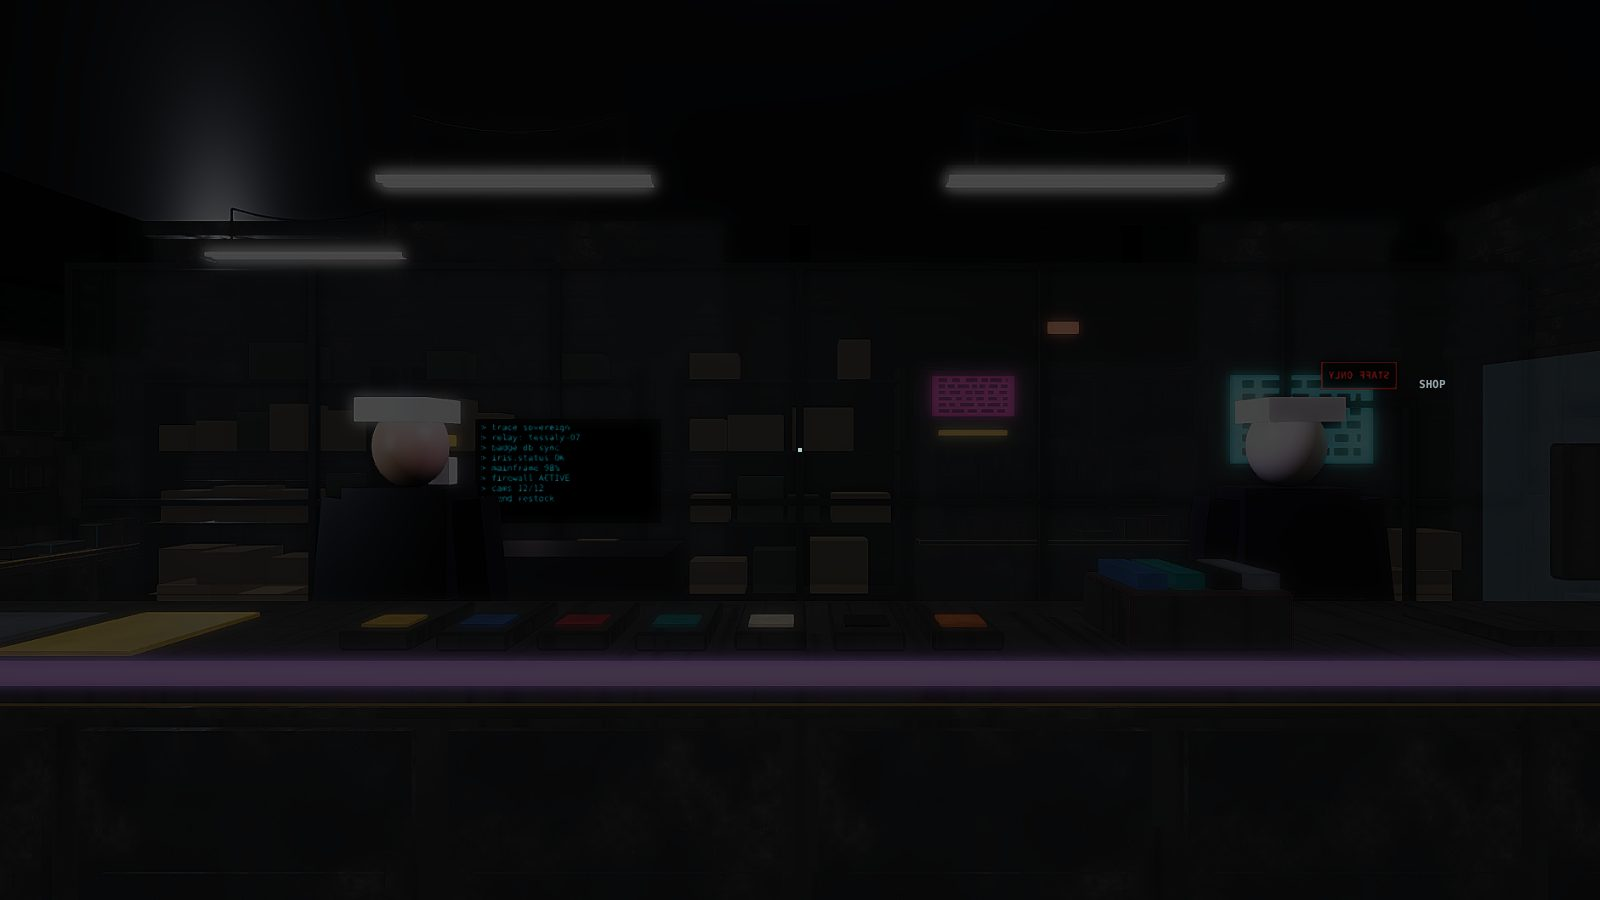
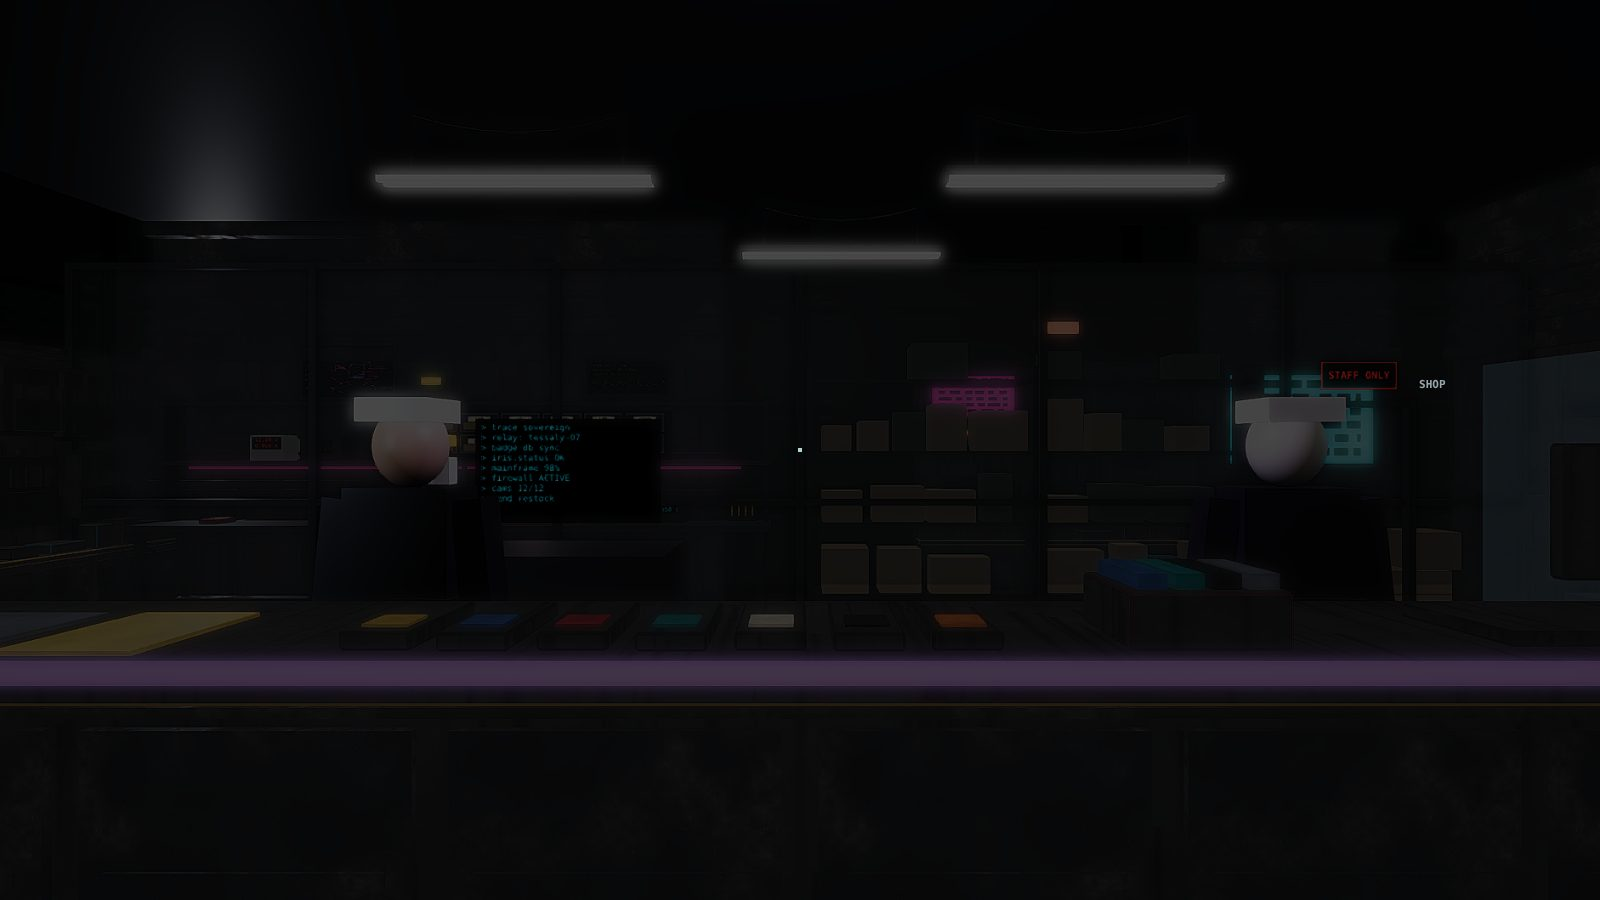
District shop: half the stock cage is a repair bench
David: make half the area behind the mesh a work station. West half: an electronics bench (cutting mat, boards,
instruments, parts bins, two monitors, pink work light). East half: the stock racks.

Claude-Session: https://claude.ai/code/session_013LW6cCPWiok2HMcoh6xN6q

diff --git a/void-runner/neochinatown.js b/void-runner/neochinatown.js
@@ -802,11 +802,34 @@
      plane('shop-cage-sign',.7,.26,[15.1,2.36,Z-.06],texMat('shop-cage-sign',texture('shop-cage-sign',256,96,(g,W,H)=>{g.fillStyle='#0a0b0e';g.fillRect(0,0,W,H);g.strokeStyle='#ff4a36';g.lineWidth=4;g.strokeRect(4,4,W-8,H-8);g.fillStyle='#ff4a36';g.font='bold 34px Consolas,monospace';g.textAlign='center';g.textBaseline='middle';g.fillText('STAFF ONLY',W/2,H/2+2);}),{glow:true}),0);   // a plane's front is -z: it faces the counter
      // racks of stock against the back wall, inside the cage
      let q=77;const rnd=()=>(q=(q*1103515245+12345)&0x7fffffff)/0x7fffffff;
-     for(const x0 of [3.6,6.2,8.8]){for(const dx of [0,2.2])box('shop-rack',[.05,2.5,.5],[x0+dx,1.25,52.42],cageSteel);for(const y of [.25,.95,1.65,2.35]){box('shop-rack',[2.2,.04,.5],[x0+1.1,y,52.42],cageSteel);
+     for(const x0 of [10.1,12.3]){for(const dx of [0,2.2])box('shop-rack',[.05,2.5,.5],[x0+dx,1.25,52.42],cageSteel);for(const y of [.25,.95,1.65,2.35]){box('shop-rack',[2.2,.04,.5],[x0+1.1,y,52.42],cageSteel);
        let x=x0+.12;while(x<x0+2.0){const w=.26+rnd()*.34,h=.22+rnd()*.3,d=.3+rnd()*.14;if(x+w>x0+2.14)break;if(y<2.3||h<.4)box('shop-stock',[w,h,d],[x+w/2,y+.02+h/2,52.42],rnd()>.3?card:crate);x+=w+.03+rnd()*.1;}}}
-     for(const [x,z,w,h] of [[4.3,52.0,.5,.4],[5.0,51.98,.42,.32],[4.6,52.02,.4,.3],[15.9,52.2,.6,.5],[16.1,52.25,.46,.36]])box('shop-stock',[w,h,.42],[x,(h===.3||h===.36?(x<10?.4:.5):0)+h/2+.03,z],card);
+     for(const [x,z,w,h,up] of [[15.9,52.2,.6,.5,0],[16.1,52.25,.46,.36,.5],[14.9,52.5,.5,.4,0]])box('shop-stock',[w,h,.42],[x,up+h/2+.03,z],card);
+     // The west half of the cage is a repair bench (David's workstation reference): a long bench against the back wall with a cutting mat and tools, parts bins and instruments on a shelf, two monitors, a pink work light.
+     {const bz=52.42,top=mat('shop-bench-top','#17181c',{rough:.6,metal:.5}),pink=glowMat('shop-bench-pink','#ff4fb8',.85),screen=(name,w,h,p,draw)=>plane(name,w,h,p,texMat(name,texture(name,256,Math.round(256*h/w),draw),{glow:true}),0);
+      box('shop-bench',[6.2,.06,.66],[6.6,.92,bz],top);for(const x of [3.6,5.6,7.6,9.6])for(const dz of [-.28,.28])box('shop-bench-leg',[.06,.9,.06],[x,.45,bz+dz],cageSteel);box('shop-bench-shelf',[6.2,.04,.3],[6.6,1.55,52.62],top);box('shop-bench-shelf',[6.2,.04,.3],[6.6,2.15,52.62],top);for(const x of [3.55,6.6,9.65])box('shop-bench-upright',[.05,1.3,.3],[x,1.55,52.62],cageSteel);
+      box('shop-bench-light',[5.6,.03,.04],[6.6,1.5,52.5],pink);lightPool('#ff4fb8',5.4,.9,[6.6,.955,bz],.3);
+      // the cutting mat and what lies on it, as one picture seen from above
+      {const t=texture('shop-bench-mat',512,128,(g,W,H)=>{g.fillStyle='#17352e';g.fillRect(0,0,W,H);g.strokeStyle='rgba(120,200,170,.35)';g.lineWidth=1;for(let x=0;x<W;x+=16){g.beginPath();g.moveTo(x,0);g.lineTo(x,H);g.stroke();}for(let y=0;y<H;y+=16){g.beginPath();g.moveTo(0,y);g.lineTo(W,y);g.stroke();}
+        let q=91;const rnd=()=>(q=(q*1103515245+12345)&0x7fffffff)/0x7fffffff;for(const [x,y,w,h] of [[60,30,70,46],[300,60,54,36],[420,24,60,40]]){g.fillStyle='#143a22';g.fillRect(x,y,w,h);g.fillStyle='#0b0c0e';for(let n=0;n<7;n++)g.fillRect(x+6+rnd()*(w-22),y+5+rnd()*(h-16),8+rnd()*10,5+rnd()*6);g.fillStyle='#c9a64a';for(let n=0;n<10;n++)g.fillRect(x+3+n*(w-8)/10,y+h-4,2,3);}
+        g.fillStyle='#b8bcc4';g.beginPath();g.arc(200,64,20,0,7);g.fill();g.fillStyle='#17352e';g.beginPath();g.arc(200,64,9,0,7);g.fill();g.fillStyle='#c0392b';g.fillRect(140,84,52,9);g.fillRect(140,98,52,9);g.fillStyle='#9aa0a8';g.fillRect(192,88,30,5);g.fillRect(192,99,30,5);g.fillStyle='#d8dce4';g.fillRect(250,20,44,6);g.fillStyle='#e8e8ec';g.fillRect(380,90,60,8);g.fillStyle='#ff4fb8';g.fillRect(432,90,8,8);});
+       const m=new B.StandardMaterial('ncz-shop-bench-mat',scene);owned.push(m);m.diffuseTexture=t;m.emissiveTexture=t;m.emissiveColor=new B.Color3(.45,.45,.45);m.specularColor=new B.Color3(.05,.05,.05);add(B.MeshBuilder.CreateGround('shop-bench-mat',{width:2.6,height:.56},scene),m,[6.9,.953,bz-.02]);}
+      // instruments: a bench supply, a soldering station, a meter, a small scope; a magnifier on an arm; a spool; a tool rack
+      box('shop-bench-psu',[.34,.26,.3],[4.6,1.7,52.62],mat('shop-instrument','#c9c6bd',{rough:.6,metal:.2}));screen('shop-psu-face',.3,.13,[4.6,1.75,52.465],(g,W,H)=>{g.fillStyle='#120606';g.fillRect(0,0,W,H);g.fillStyle='#ff3a2a';g.font='bold '+Math.round(H*.42)+'px Consolas,monospace';g.textAlign='center';g.textBaseline='middle';g.fillText('12.00 V',W/2,H*.28);g.fillText('0.000 A',W/2,H*.74);});
+      box('shop-bench-solder',[.3,.2,.28],[8.7,1.05,bz+.1],cageSteel);screen('shop-solder-face',.16,.09,[8.7,1.08,bz-.045],(g,W,H)=>{g.fillStyle='#04100c';g.fillRect(0,0,W,H);g.fillStyle='#7ff0ff';g.font='bold '+Math.round(H*.7)+'px Consolas,monospace';g.textAlign='center';g.textBaseline='middle';g.fillText('350°C',W/2,H/2);});{const iron=cyl('shop-solder-iron',.012,.3,[9.05,1.08,bz],cageSteel,true,6);iron.rotation.z=.9;}
+      box('shop-bench-meter',[.16,.05,.28],[4.2,.975,bz-.08],mat('shop-meter','#7a1612',{rough:.6,metal:.1}));screen('shop-meter-face',.12,.07,[4.2,1.003,bz-.16],(g,W,H)=>{g.fillStyle='#9fb09a';g.fillRect(0,0,W,H);g.fillStyle='#10140f';g.font='bold '+Math.round(H*.7)+'px Consolas,monospace';g.textAlign='center';g.textBaseline='middle';g.fillText('0.000',W/2,H/2);}).rotation.x=Math.PI/2;
+      box('shop-bench-scope',[.3,.22,.26],[5.2,1.7,52.62],cageSteel);screen('shop-scope-face',.2,.13,[5.16,1.71,52.485],(g,W,H)=>{g.fillStyle='#03120c';g.fillRect(0,0,W,H);g.strokeStyle='#58ffb0';g.lineWidth=3;g.beginPath();for(let x=0;x<=W;x+=4){const y=H/2+Math.sin(x*.09)*H*.3*(x>W*.4&&x<W*.6?.2:1);x?g.lineTo(x,y):g.moveTo(x,y);}g.stroke();});
+      {const arm=cyl('shop-bench-arm',.012,.42,[6.2,1.17,bz+.12],cageSteel,true,6);arm.rotation.x=-.35;const lens=cyl('shop-bench-lens',.11,.012,[6.2,1.37,bz+.02],mat('shop-lens','#9fd8e8',{rough:.05,metal:.2,alpha:.35}),false,20);lens.rotation.x=.5;const rim=add(B.MeshBuilder.CreateTorus('shop-bench-lens-rim',{diameter:.22,thickness:.016,tessellation:20},scene),cageSteel,[6.2,1.37,bz+.02]);rim.rotation.x=.5;}
+      {const spool=cyl('shop-bench-spool',.05,.05,[7.6,.98,bz+.1],mat('shop-spool','#a8281e',{rough:.5,metal:.3}),true,12);for(let k=0;k<7;k++)cyl('shop-bench-driver',.008,.16,[9.3+k*.035,1.03,bz+.2],k%2?cageSteel:mat('shop-driver','#d8a020',{rough:.5,metal:.3}),true,6);box('shop-bench-driver-rack',[.3,.05,.06],[9.4,.975,bz+.2],cageSteel);}
+      // parts bins on the lower shelf: rows of small clear drawers with labels, as one picture
+      screen('shop-bench-bins',2.6,.5,[7.4,1.83,52.47],(g,W,H)=>{g.fillStyle='#0a0b0f';g.fillRect(0,0,W,H);const names=['RES','CAP','IC','DIODE','LED','CONN','SWITCH','XTAL','MISC','FUSE','REG','MOSFET'];for(let r=0;r<2;r++)for(let c=0;c<6;c++){const x=4+c*(W-8)/6,y=3+r*(H-6)/2,w=(W-8)/6-4,h=(H-6)/2-4;g.fillStyle='rgba(120,130,160,.28)';g.fillRect(x,y,w,h);g.strokeStyle='rgba(200,210,235,.5)';g.lineWidth=1;g.strokeRect(x,y,w,h);g.fillStyle='rgba(220,190,90,.5)';g.fillRect(x+3,y+h*.5,w-6,h*.42);g.fillStyle='#d8d2c0';g.fillRect(x+w*.2,y+3,w*.6,h*.3);g.fillStyle='#16161a';g.font='bold '+Math.round(h*.24)+'px Arial,sans-serif';g.textAlign='center';g.textBaseline='middle';g.fillText(names[r*6+c],x+w/2,y+3+h*.16);}});
+      // two monitors on the upper shelf: a board layout and a terminal
+      box('shop-bench-monitor',[1.0,.6,.04],[5.3,2.5,52.7],cageSteel);screen('shop-bench-screen-a',.94,.54,[5.3,2.5,52.675],(g,W,H)=>{g.fillStyle='#070a12';g.fillRect(0,0,W,H);g.strokeStyle='#ff4fd0';g.lineWidth=1.5;let q=5;const rnd=()=>(q=(q*1103515245+12345)&0x7fffffff)/0x7fffffff;for(let n=0;n<34;n++){const x=W*.3+rnd()*W*.62,y=H*.14+rnd()*H*.72;g.beginPath();g.moveTo(x,y);g.lineTo(x+(rnd()-.5)*60,y);g.lineTo(x+(rnd()-.5)*60,y+(rnd()-.5)*50);g.stroke();}g.strokeStyle='#58e8ff';g.strokeRect(W*.52,H*.36,W*.16,H*.26);g.fillStyle='#58e8ff';g.font='9px Consolas,monospace';for(let n=0;n<9;n++)g.fillText(['U1 MCU','U2 PMIC','J1 USB-C','Y1 XTAL','C14 10u','R7 4k7','D2 TVS','L1 2u2','TP3'][n],8,22+n*13);});
+      box('shop-bench-monitor',[.9,.5,.04],[8.2,2.48,52.7],cageSteel);screen('shop-bench-screen-b',.84,.44,[8.2,2.48,52.675],(g,W,H)=>{g.fillStyle='#04080a';g.fillRect(0,0,W,H);g.fillStyle='#38e8c8';g.font='10px Consolas,monospace';['> flash v1-device 0x08000000','> verify ...... OK','> probe swd: 1 target','> bench psu 12.00V 0.000A','> queue: 3 repairs'].forEach((t,i)=>g.fillText(t,8,18+i*14));g.strokeStyle='#38e8c8';g.beginPath();for(let x=0;x<W;x+=3){const y=H*.82-Math.abs(Math.sin(x*.07))*H*.2*((x*7)%13/13);x?g.lineTo(x,y):g.moveTo(x,y);}g.stroke();});
+      // a stool pushed under the bench
+      cyl('shop-bench-stool',.19,.06,[6.9,.62,51.98],mat('shop-stool','#141218',{rough:.7,metal:.1}),true,14);cyl('shop-bench-stool-leg',.03,.6,[6.9,.3,51.98],cageSteel,true,8);}
      box('hall-door-lamp-body',[.5,.2,.1],[12.7,2.95,52.74],mat('hall-lamp-cage','#14171c',{rough:.5,metal:.8}));{const r=mat('hall-lamp-red','#4a0c08',{glow:'#ff3a22',rough:.4});r.emissiveIntensity=2.2;box('hall-door-lamp',[.38,.12,.06],[12.7,2.95,52.69],r);}
-     if(shopKit)kitPiece('district:tube_light_2m',[6.2,4.05-.51,52.3],0,[],{merge:true});if(typeof lightPool==='function')lightPool('#ff3a22',3,1.6,[12.7,.034,52.2],.4);}
+     if(shopKit)kitPiece('district:tube_light_2m',[11.4,4.05-.51,52.3],0,[],{merge:true});if(typeof lightPool==='function')lightPool('#ff3a22',3,1.6,[12.7,.034,52.2],.4);}
     if(state?.story?.flags?.adminOccupied!==true)characterModel('admin',target,[8,0,48.6],false);characterModel('iris',target,[12.5,0,48.6],false);
 
     // Vending alcove: three lit machines.

diff --git a/docs/development/DISTRICT_INTERIOR.md b/docs/development/DISTRICT_INTERIOR.md
@@ -61,4 +61,4 @@ capsule-hotel corridor; two round, lit pod entrances; Admin (three pictures); Ir
   - Pod vending face: a dark cabinet lit shelf by shelf; the two jar products are drawn as clear jars of buds (David's vending references). The product list is unchanged.
   - Interior lamp order is now: hallway, hallway, pod room, VR, bar, shop (these six reach the materials), then vestibule, two accents, `[38,4,68]` (unused). The vestibule lamp was very weak and is now among the unused ones.
   - Pictures: `docs/development/hall-wall/pods-*.jpg`. Not done: pod window view, the pod room's side walls and ceiling, the room's vending wall, the hallway VENDING room's machines.
-- **Shop: the stock cage (David: "a separate area with a mesh divider behind Admin and Iris for storage"):** a wire-mesh partition across the shop at z 51.75, from wall to wall, with steel posts and rails, a padlocked gate frame at x 14.6..15.6 and a red STAFF ONLY sign; behind it three racks of cardboard boxes and crates, loose boxes, a bare tube and a red lamp. It is a new collision solid, `shop-storage-partition` (staff only: nobody walks through; the tests' solid counts went up by one). The gear wall, the poster and the wall lining that were on the back wall are now inside the cage. Admin, Iris, the counter, the workstation and every interaction are unchanged. Pictures: `docs/development/hall-wall/shop-storage*.jpg`. The rest of the store (mesh gun walls, clothes rails, pegboard packs, workbench, fluorescent tubes, cables: his five references) is not built yet.
+- **Shop: the stock cage (David: "a separate area with a mesh divider behind Admin and Iris for storage"):** a wire-mesh partition across the shop at z 51.75, from wall to wall, with steel posts and rails, a padlocked gate frame at x 14.6..15.6 and a red STAFF ONLY sign; behind it, the **east half is stock** (two racks of cardboard boxes and crates, loose boxes, a bare tube, a red lamp) and the **west half is a repair bench** (David: "make half the area behind that be a work station on one side", with an electronics-bench reference): a long bench with a green cutting mat, boards and tools, a bench power supply, a small scope, a soldering station, a meter, a magnifier on an arm, a tool rack, labelled parts bins, two monitors (a board layout and a terminal), a stool and a pink work light. It is scenery: no interaction. It is a new collision solid, `shop-storage-partition` (staff only: nobody walks through; the tests' solid counts went up by one). The gear wall, the poster and the wall lining that were on the back wall are now inside the cage. Admin, Iris, the counter, the workstation and every interaction are unchanged. Pictures: `docs/development/hall-wall/shop-storage*.jpg`. The rest of the store (mesh gun walls, clothes rails, pegboard packs, workbench, fluorescent tubes, cables: his five references) is not built yet.

diff --git a/docs/development/VISUAL_REFERENCES.md b/docs/development/VISUAL_REFERENCES.md
@@ -135,3 +135,4 @@ The pictures themselves are not in the repository (the cloud session cannot save
 - **The Darknet District store (five pictures).** A dark shop inside container walls: wire-mesh panels with rifles and carbines mounted on them under warm strip lights, rails of black hoodies and jackets with graphic prints, backpacks and plate carriers hung on pegboard, a workbench with gear laid out, a glass display cabinet, cardboard boxes on the floor, bare fluorescent tubes in battered reflectors, sagging cable bundles, graffiti and stickers, a red LED sign and red lamp glow, a small neon outline sign. **For the Admin and Iris shop; not built yet.**
 - **Storage behind Admin and Iris.** David: "there should be a separate area with a mesh divider behind Admin and Iris for storage". Not built yet: a caged stock area behind the counter (wire-mesh partition, shelving, boxes); check the counter's collision and the Admin/Iris positions before placing it.
 - **VR play area.** Two glass-walled booths side by side in a dark concrete room, one lit **pink** and one **cyan**: scratched glass panels in steel frames, a ceiling light bar in the booth's colour, a tracking camera in each upper corner, a headset and two controllers hung on a small wire-mesh rack on the back wall (with a short light strip above and below it), a floor unit, cables along the wall, and the play space marked on the wet floor with a thin line and corner marks in the booth's colour. Faint holograms (a fish, a city) on the glass. A bar with ring lights is visible beyond. **For the VR area; not rebuilt yet.** This is the one room where David's reference keeps coloured strip light, so the hallway's "no neon strips" rule should not be applied blindly there.
+- **Repair workstation (for one half of the storage cage; built, first version).** An electronics bench under pink light: a green cutting mat with circuit boards, pliers, tweezers, a solder spool and flux; a red multimeter; a magnifier on a jointed arm; a soldering station showing 350 C; a rack of screwdrivers; shelves of small labelled parts bins (RES, CAP, IC, DIODE, LED, CONN, SWITCH, XTAL, MISC); a bench power supply showing 12.00 V; a small oscilloscope; two monitors (a board layout, a terminal); cables everywhere; a worn chair.
